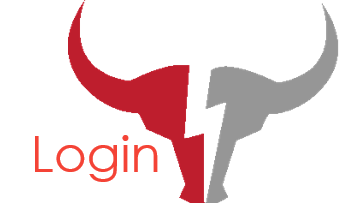
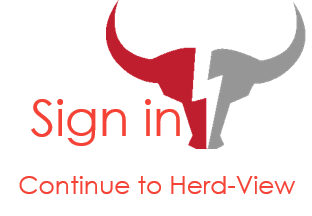
Herd-View login form appearance modification

diff --git a/herd-view/src/app/controls/nav-bar/nav-bar.component.html b/herd-view/src/app/controls/nav-bar/nav-bar.component.html
@@ -18,13 +18,8 @@
     </div>
   </mat-sidenav>
   <mat-sidenav-content>
-  <mat-toolbar class="toggle-toolbar bottom-content" *ngIf="isLoggedIn$ && isHandset$ | async">
-      <button
-        type="button"
-        aria-label="Toggle sidenav"
-        mat-icon-button
-        (click)="toggle()"
-        *ngIf="isHandset$ | async">
+    <mat-toolbar *ngIf="isLoggedIn$ | async" class="toolbar bottom-content">
+      <button mat-fab *ngIf="isHandset$ | async" class="toggle-toolbar-button" aria-label="Toggle sidenav" (click)="toggle()">
         <mat-icon matTooltip="Menu" aria-label="Toggle icon">arrow_forward</mat-icon>
       </button>
     </mat-toolbar>

diff --git a/herd-view/src/app/controls/login-form/login-form.component.html b/herd-view/src/app/controls/login-form/login-form.component.html
@@ -16,7 +16,9 @@
             <mat-icon matSuffix (click)="hide = !hide">{{hide ? 'visibility_off' : 'visibility'}}</mat-icon>
             <mat-error *ngIf="isFieldInvalid('password')">Password required</mat-error>
           </mat-form-field>
-          <button mat-icon-button (click)="onSubmit()"><mat-icon aria-label="Login icon">login</mat-icon></button>
+          <button mat-mini-fab color="primary" class="mat-elevation-z0" aria-label="Sign in" (click)="onSubmit()">
+            <mat-icon matTooltip="Sign in" aria-label="Login icon">arrow_forward</mat-icon>
+          </button>
         </form>
       </mat-card-content>
     </mat-card>

diff --git a/herd-view/src/app/controls/module-process-panel/module-process-panel.component.ts b/herd-view/src/app/controls/module-process-panel/module-process-panel.component.ts
@@ -44,9 +44,10 @@ export class ModuleProcessPanelComponent extends AdaptiveComponent implements Af
     
     this.getData();
 
-    interval(Config.assets_refresh_interval).subscribe(_ => {
-      this.getData();
-    });
+    // Temporarily disabled for performance impact evaluation
+    //interval(Config.assets_refresh_interval).subscribe(_ => {
+    //  this.getData();
+    //});
   }
 
   ngAfterViewInit() {

diff --git a/herd-view/src/app/controls/nav-bar/nav-bar.component.css b/herd-view/src/app/controls/nav-bar/nav-bar.component.css
@@ -32,9 +32,17 @@
   right: 0;
 }
 
-.toggle-toolbar{
-  background-color: rgb(48, 48, 48);
+.toolbar{
+  background-color: transparent;
   width: 72px;
+}
+
+.toggle-toolbar-button{
+  z-index: 15;
+  margin-bottom: 10px;
+  background-color: rgb(66, 66, 66);
+  color: white;
+  position: fixed;
 }
 
 ::ng-deep .mat-toolbar-single-row {

diff --git a/herd-server/bin/lib/rdhd-lib-input_validator.js b/herd-server/bin/lib/rdhd-lib-input_validator.js
@@ -41,8 +41,7 @@ class InputValidator
 
     static validateName(value)
     {
-        // Note: a name must start with a letter
-        return InputValidator._validateField(value, /^[a-z][a-z0-9_\-]*$/i);
+        return InputValidator._validateField(value, /^[a-z0-9_\-]*$/i);
     }
 
     static validateDescription(value)

diff --git a/herd-view/src/app/controls/module-asset-panel/module-asset-panel.component.html b/herd-view/src/app/controls/module-asset-panel/module-asset-panel.component.html
@@ -29,7 +29,7 @@
 
     <!-- Ip Column -->
     <ng-container matColumnDef="ip">
-        <th mat-header-cell *matHeaderCellDef mat-sort-header>IP</th>
+        <th mat-header-cell *matHeaderCellDef mat-sort-header>Ip</th>
         <td mat-cell *matCellDef="let row">{{row.ip}}</td>
     </ng-container>
 

diff --git a/CHANGELOG.md b/CHANGELOG.md
@@ -7,6 +7,7 @@ and this project adheres to [Semantic Versioning](https://semver.org/spec/v2.0.0
 ## [v0.0.4] - Unreleased
 ### Added
 - The backend implementation of multi-asset module execution
+- The frontend implementation of multi-asset module execution
 - The new modules/run API endpoint which allows to launch a module on multiple assets at the same time
 - The tabs workspace partial persistence using indexedDB client-side
 - The "herd-modules" alias to modules collection folder

diff --git a/README.md b/README.md
@@ -52,7 +52,7 @@ Feel free to contact us at this e-mail address:
 The provided contents and tools are for awareness and research purposes only. Our target audience is composed of those interested in learning about Ethical Hacking, Security, Penetration Testing and Red Teaming. We are not responsible for any inappropriate or illegal usage of both proposed material and discussed topics.
 
 
-## Developers
+## Authors
 
 <table border="0">
 <tr width="9999">
